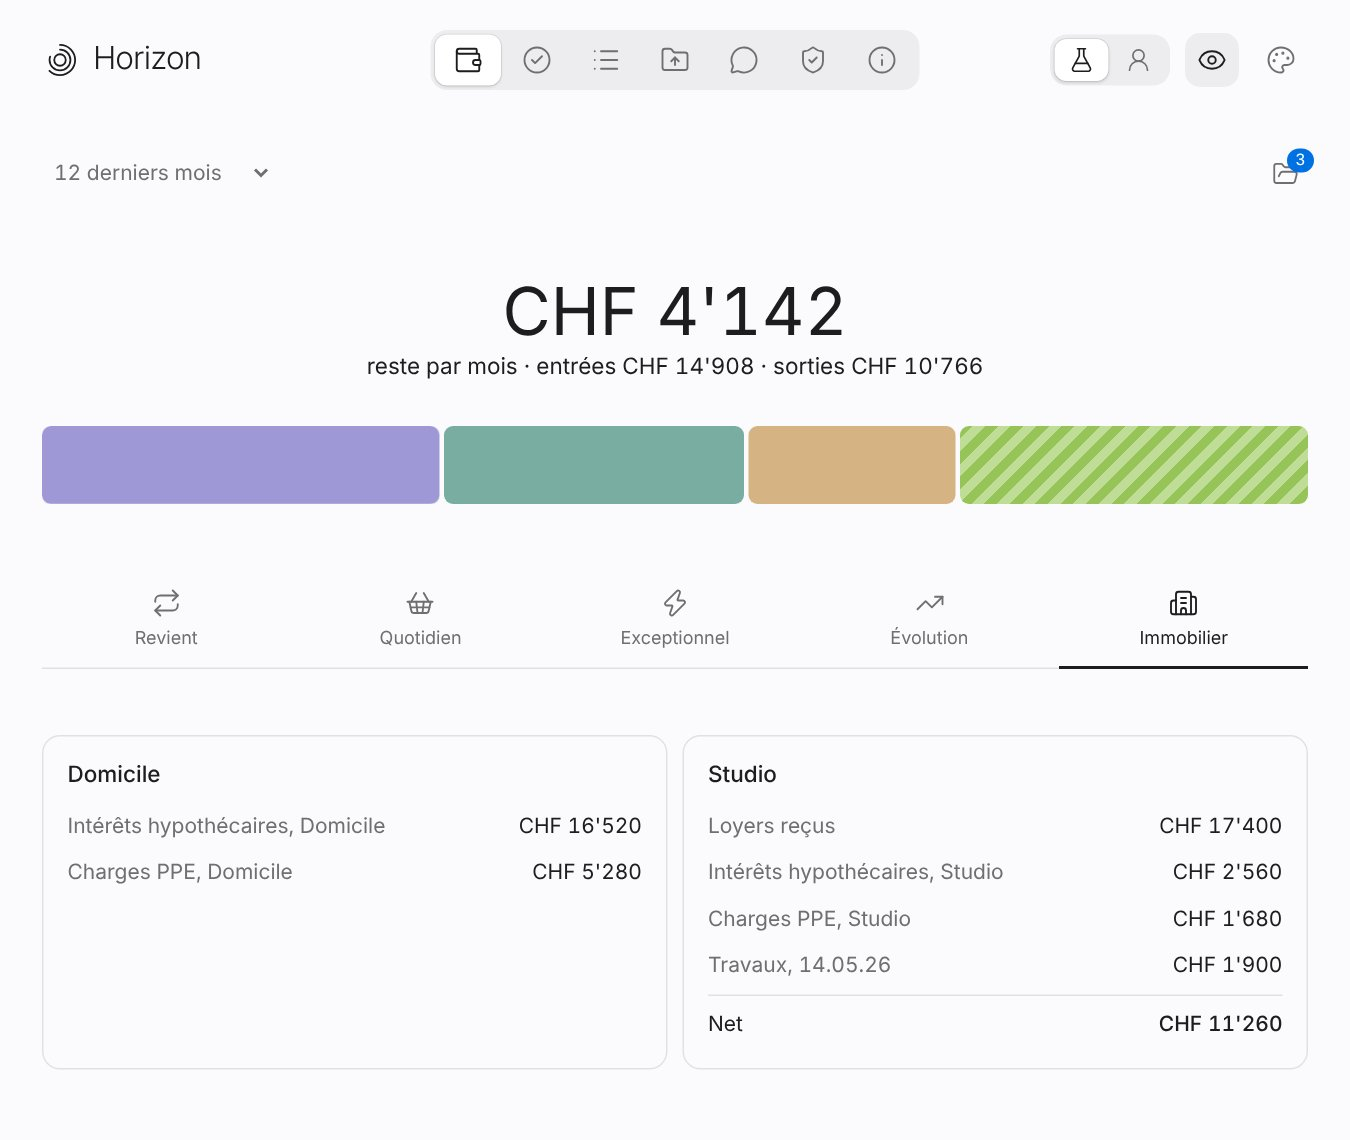
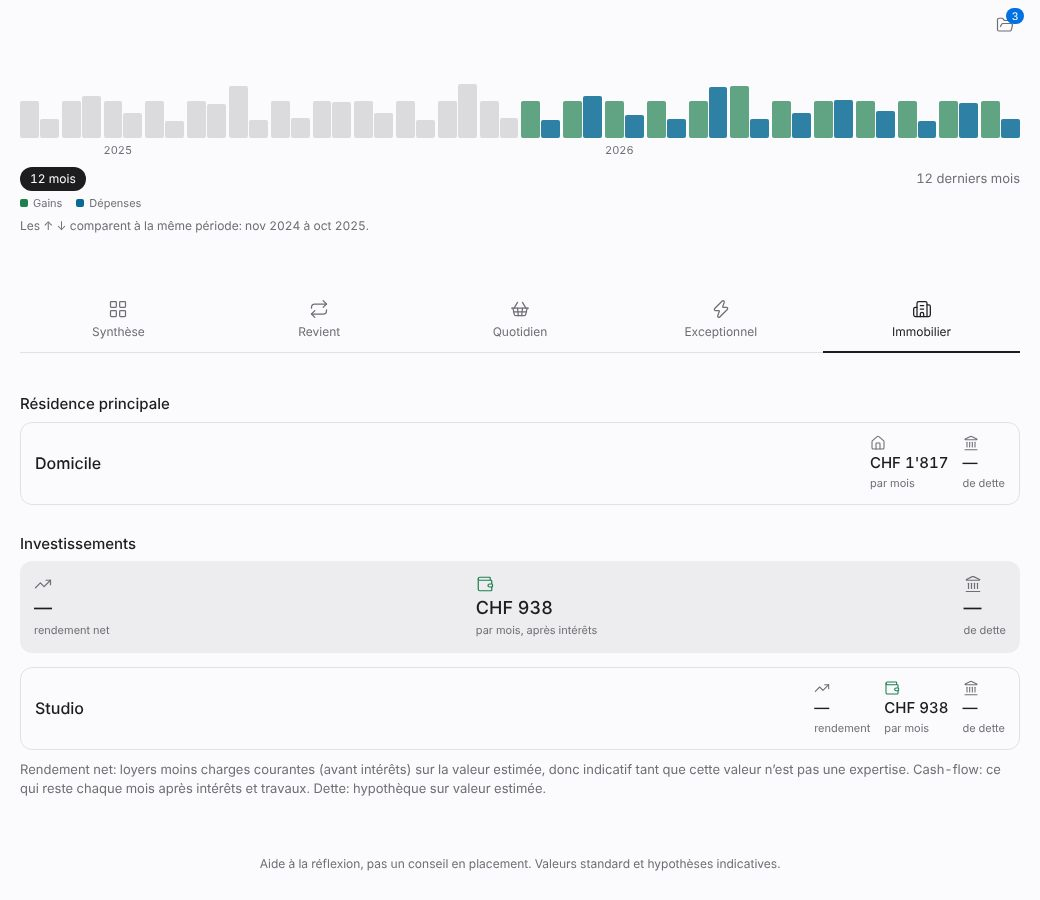
Documentation: écrans à jour (Synthèse, Revient, Immobilier), nouvelle capture Synthèse, GUIDE et ARCHITECTURE alignés (données fictives)
Claude-Session: https://claude.ai/code/session_01UT5uZqmcmGMjmS4u3UQAYj

diff --git a/docs/GUIDE.md b/docs/GUIDE.md
@@ -56,19 +56,23 @@ Elles ne figurent pas dans les relevés, mais changent tout.
 
 ## 5. Lire le résultat
 
-L'écran **Budget** répond à quatre questions:
+L'écran **Budget** répond à une question: où vont les gains et les dépenses, et où peut-on optimiser. Une frise en haut montre les gains et les dépenses mois par mois; on clique un mois, une année, ou on glisse sur une plage (« 12 mois » revient à la vue par défaut). Cinq onglets en dessous:
 
-| Question | Où |
+| Onglet | Ce qu'on y lit |
 |---|---|
-| Combien rentre, combien sort, combien reste-t-il ? | les trois tuiles du haut (moyenne mensuelle) |
-| Quel est mon rythme habituel ? | « Habituelles, sans travaux ni montants uniques » |
-| Où va l'argent ? | « Où part l'argent », avec la tendance (3 derniers mois, ou année contre année) |
-| Qu'est-ce qui rapporte, qu'est-ce qui coûte ? | « Immobilier: ménage et locatif », « Travaux par bien » |
+| Synthèse | gains et dépenses de la période, comparés aux mêmes mois un an plus tôt (les deux montants et les mois sont écrits), d'où viennent les gains, comment se répartissent les dépenses, ce qu'on peut comparer ou renégocier |
+| Revient | les charges fixes (hypothèque, assurances, abonnements, impôts réguliers) avec leur montant par an et par mois |
+| Quotidien | les dépenses courantes régulières (courses, essence, restaurants) |
+| Exceptionnel | impôts, voyages et grosses dépenses uniques, groupés par catégorie |
+| Immobilier | résidence principale, puis investissements: rendement net, cash-flow, dette sur valeur; travaux par bien |
 
-- **Sélecteur de période:** 12 derniers mois, ou une année (la comparaison avec l'année précédente s'affiche pour chaque catégorie).
-- **Versements uniques:** ils sont comptés dans les totaux, mais pas dans la moyenne mensuelle.
+- **Détail d'une ligne:** un clic ouvre les paiements. « Corriger le nom ou la catégorie » s'applique à toutes les variantes du même fournisseur; la correction la plus récente l'emporte sur une ancienne règle.
+- **Tri et regroupement:** par montant ou par nom, avec ou sans regroupement par catégorie.
+- **Valeur des biens:** la valeur estimée, sa fourchette et sa source s'affichent dans la fiche du bien. Sans expertise, le rendement et la dette sur valeur restent indicatifs.
+- **Répartition d'un solde de loyers:** un versement de gérance qui ne vaut pas des mois complets reste « Non réparti » tant que tu ne l'as pas réparti (réglage `budget.repartitions`: libellé, date, biens concernés, au prorata de leurs loyers habituels).
+- **Versements uniques:** ils sont comptés à part, pas dans les gains habituels.
 - **Mis de côté:** épargne, 3e pilier, rachats de caisse de pension, amortissements: ce n'est pas une dépense.
-- **À identifier:** il ne reste là que ce qu'Horizon ne sait pas classer. Chaque ligne indique la date, le compte et l'occurrence. « Je ne sais pas » est une réponse acceptée.
+- **À identifier:** il ne reste là que ce qu'Horizon ne sait pas classer. « Je ne sais pas » est une réponse acceptée.
 
 ## 6. Contrôler les chiffres
 

diff --git a/docs/ARCHITECTURE.md b/docs/ARCHITECTURE.md
@@ -201,7 +201,7 @@ Outil d'aide à la réflexion et à l'organisation. Il ne constitue pas un conse
 
 ## Budget: de documents à chiffres
 
-Le budget vit dans trois tables de la base (`budget_accounts`, `budget_txs`, `budget_estimates`) et quelques réglages (`budget.biens`, `budget.uniques`, `budget.imputation`, mémoire de classement). Aucune ligne n'est saisie à la main.
+Le budget vit dans trois tables de la base (`budget_accounts`, `budget_txs`, `budget_estimates`) et quelques réglages (`budget.biens`, `budget.fournisseurs`, `budget.repartitions`, `budget.eclats`, `budget.uniques`, mémoire de classement). Aucune ligne n'est saisie à la main.
 
 Chaîne de lecture (`server/watch.ts`):
 
@@ -210,6 +210,7 @@ Chaîne de lecture (`server/watch.ts`):
 3. **Factures de carte Viseca** (`server/viseca.ts`): lecture déterministe, catégorie de la banque conservée (source `banque`), contrôle sur le total imprimé; un montant manquant se déduit du total si une seule ligne est en cause.
 4. **Autres PDF qui ressemblent à un relevé**: un petit modèle renvoie les lignes (`server/tx-extract.ts`); un solde d'ouverture et de clôture réconcilie la somme, sinon rien n'est enregistré.
 5. **Classement** (`reclassify` dans `server/budget.ts`): règles locales, virements entre comptes du foyer, appariement des virements internes, doublons entre comptes (la ligne gardée prend le libellé le plus complet), revenus exceptionnels (mois contre habitude de l'émetteur), mémoire de l'utilisateur; puis, pour ce qui reste inconnu, un petit modèle sur des libellés réduits (`server/budget-ai.ts`).
-6. **Vue** (`budgetView`): mois par mois, revenus, dépenses, mis de côté, versements uniques, catégories, travaux et immobilier par bien, imputation d'un montant à une autre année.
+6. **Analyse** (`recurringView` dans `server/recurring.ts`, noms de fournisseurs dans `server/supplier.ts`, décomptes de copropriété dans `server/decompte.ts`): sépare ce qui revient, le quotidien, l'exceptionnel et les travaux d'un bien sur une période (12 mois, une année, un mois ou une plage). Les comparaisons se font sur les mêmes mois un an plus tôt, sans extrapolation. Une correction de fournisseur est une règle (`key` du fournisseur, ou `re` sur le libellé); la plus récente l'emporte.
+7. **Vue** (`budgetView`): mois par mois, revenus, dépenses, mis de côté, versements uniques, catégories, travaux et immobilier par bien, imputation d'un montant à une autre année.
 
 Priorité des sources de classement: mémoire de l'utilisateur, puis catégorie de la banque, puis modèle, puis règles. Une ligne classée par la mémoire, le modèle ou la banque n'est jamais recalculée.

diff --git a/README.md b/README.md
@@ -50,13 +50,13 @@ Le guide complet, pour quelqu'un qui découvre l'outil, est dans **[docs/GUIDE.m
 
 Captures prises sur des données de démonstration inventées (famille fictive chargée par `npm run dev`).
 
-![Ce qui revient](docs/screenshots/revient.jpg)
+![Synthèse](docs/screenshots/synthese.jpg)
 
-![Évolution](docs/screenshots/evolution.jpg)
+![Ce qui revient](docs/screenshots/revient.jpg)
 
 ![Immobilier par bien](docs/screenshots/immobilier.jpg)
 
-- **Budget** (accueil): ce qui reste par mois, la répartition des sorties en trois (ce qui revient, le quotidien, l'exceptionnel) et cinq onglets. Chaque ligne s'ouvre sur ses paiements et peut être renommée ou reclassée. Un menu choisit la période (12 mois, une année à ce jour, un mois); les variations comparent les mêmes mois d'une année à l'autre. L'onglet Immobilier détaille loyers, charges et net par bien, avec le décompte annuel de copropriété quand il est dans le dossier. L'icône dossier ouvre les documents, les lignes à identifier, les noms choisis et tes biens.
+- **Budget** (accueil): une frise des gains et des dépenses mois par mois (clic sur un mois, une année ou une plage), puis cinq onglets: Synthèse (gains, dépenses, comparaison aux mêmes mois un an plus tôt avec les deux montants écrits), Revient (charges fixes), Quotidien (dépenses courantes), Exceptionnel (impôts, voyages, grosses dépenses) et Immobilier (résidence principale, puis investissements avec rendement net, cash-flow et dette sur valeur). Chaque ligne s'ouvre sur ses paiements et peut être renommée ou reclassée; la correction vaut pour toutes les variantes du fournisseur. L'icône dossier ouvre les documents, les lignes à identifier, les noms choisis et tes biens.
 - **Importer**: lit un dossier ou des fichiers, masque les identifiants.
 - **À valider**: faits proposés par la lecture des documents, en attente de ton accord.
 - **Données**: tout ce qui est connu, modifiable, avec historique.
